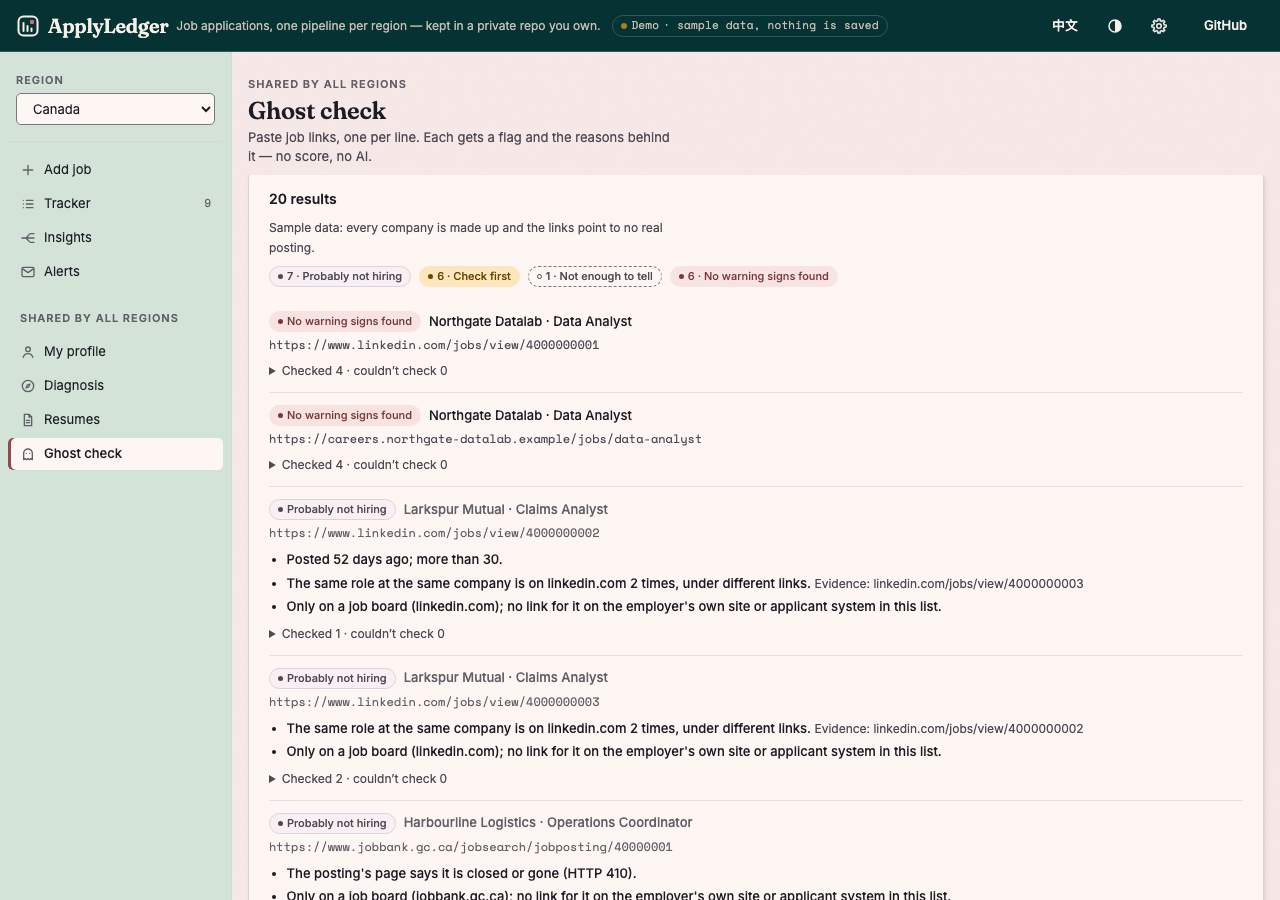
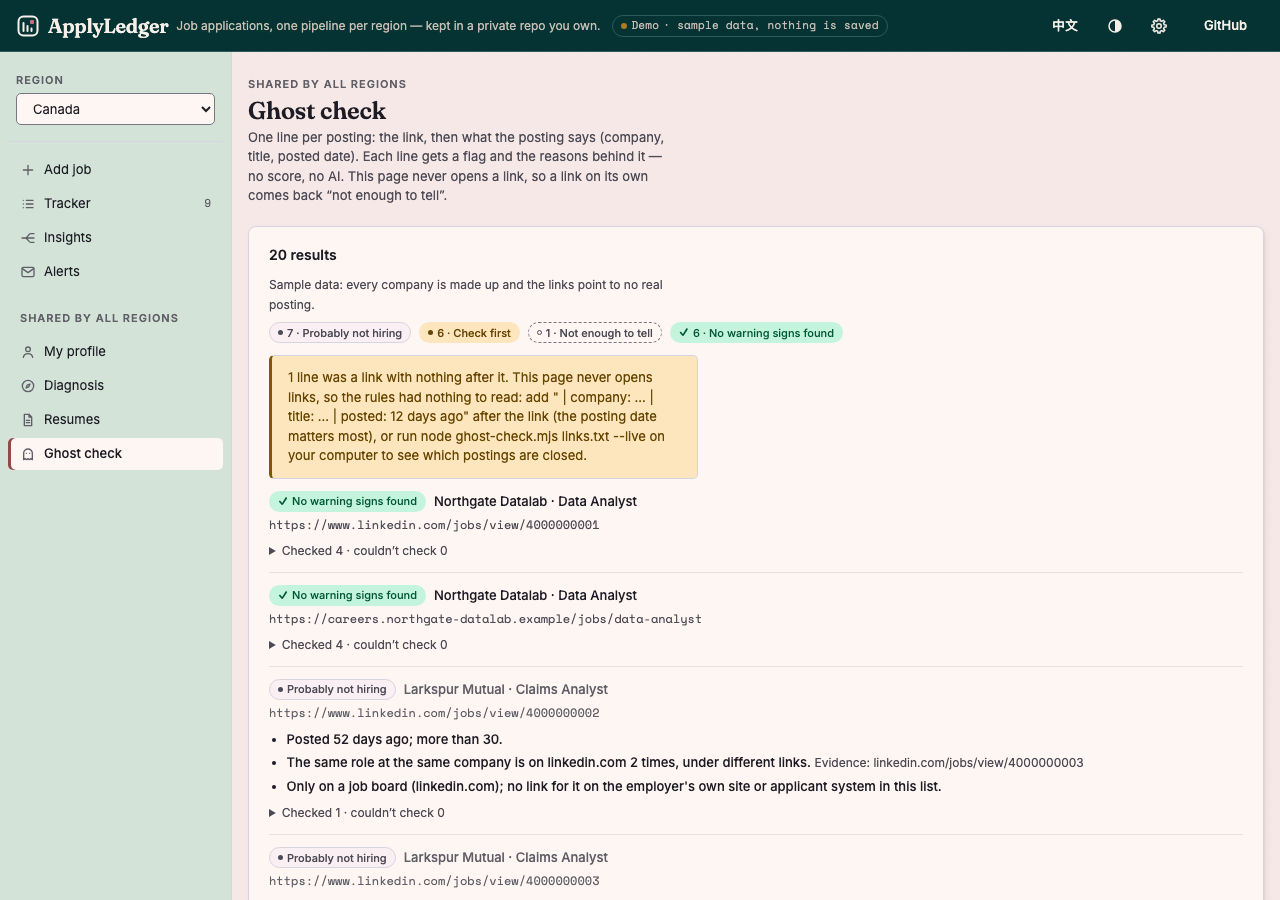
Ghost check: say what to paste, show a worked example, calm colour for the calm flag
Found while checking the repo as an outside reader (2026-09-30): the page and
the README said "paste job links", but five bare links pasted came back
"not enough to tell", five of five. The rules read what is written after the
link (company, title, posted date); the page never opens a link. The check
itself is unchanged; the words and the first screen now agree with it.

- Page: the heading says what a line needs and that a bare link comes back
  "not enough to tell"; the hint carries one worked example and its result;
  when a pasted line is only a link, a note says what to add.
- Command line: the same note after the summary line.
- README: a Try it block near the top with one command
  (node ghost-check.mjs examples/ghost-links.txt) and its real output, one
  line for each of the four flags; "What to paste" in the Ghost check
  section; --live is described as what it is (it only sees closed pages).
- "No warning signs found" was the pink tag with a red dot (tag-info in this
  palette) and read as the alarm; it is now the green one. README image
  retaken.
- Tests: a bare link is marked as carrying no fields and the report says so;
  the README block must equal the example's current output.

No network fetching was added. Verdict logic untouched (15 of 15 mutants
still caught).

Changed region(s): [[0.1875, 0.1244, 0.8438, 1.0], [0.5312, 0.28, 0.6562, 0.3111]]

diff --git a/index.html b/index.html
@@ -3,7 +3,7 @@
 <html lang="en">
 <head>
 <meta charset="utf-8">
-<meta http-equiv="Content-Security-Policy" content="script-src 'self' 'sha256-5nyhwSzTgu2n7ZAL4gvhru/QlXgk4oq6kTJUzThiFGQ=' 'sha256-fKQZmKTZa8V4D4jRPG1kdnpiVO8m+8u3vqQQFRv0R7A=' 'sha256-usgMvqia8NwlXYHjhmGZSosoxN0j24scHXxU9V3buVs='">
+<meta http-equiv="Content-Security-Policy" content="script-src 'self' 'sha256-5nyhwSzTgu2n7ZAL4gvhru/QlXgk4oq6kTJUzThiFGQ=' 'sha256-fKQZmKTZa8V4D4jRPG1kdnpiVO8m+8u3vqQQFRv0R7A=' 'sha256-orYwMgQVs4+lO2C4UgUaQB8tQTQ2VJqJPGvjT/44crQ='">
 <script>/* appearance boot — runs before any stylesheet so the stored palette and light/dark apply on the first paint */(function(){try{var d=document.documentElement,L=window.localStorage,t=L.getItem('nl-theme'),s=L.getItem('nl-scheme');if(s===null){var o=L.getItem('theme')||L.getItem('qm-theme');if(o==='dark'||o==='light')s=o;}if(t==='paper'||t==='ink')d.setAttribute('data-theme',t);if(s==='dark'||s==='light')d.setAttribute('data-scheme',s);}catch(e){}})();</script>
 <meta name="viewport" content="width=device-width, initial-scale=1, viewport-fit=cover">
 <meta name="description" content="ApplyLedger: job applications, one pipeline per region, kept in a private repo you own. A tracker, a pipeline chart and an hours ledger for the Canadian Experience Class; the AI prompts run in your own Claude.ai.">
@@ -367,7 +367,8 @@ const GhostFlags = (() => {
       companyFrom: fields.company ? "given" : c.company ? "link" : null,
       title: fields.title || "",
       posted: fields.posted || "",
-      live: fields.live || ""
+      live: fields.live || "",
+      given: Object.keys(fields).length
     };
   }
   function check(text, opts = {}) {
@@ -3394,7 +3395,8 @@ const GHOST_VERDICT = {
   "not-hiring": { cls: "tag-neutral", en: "Probably not hiring", zh: "大概率不在招" },
   check: { cls: "tag-warning", en: "Check first", zh: "先核实" },
   unknown: { cls: "tag-draft", en: "Not enough to tell", zh: "信息不够判断" },
-  clear: { cls: "tag-info", en: "No warning signs found", zh: "没发现危险信号" }
+  clear: { cls: "tag-success", en: "No warning signs found", zh: "没发现危险信号" }
+  // the calm one: it was tag-info, which is pink with a red dot in this palette and read as the alarm
 };
 const GHOST_ORDER = ["not-hiring", "check", "unknown", "clear"];
 function GhostTab({ eyebrow }) {
@@ -3412,17 +3414,18 @@ function GhostTab({ eyebrow }) {
   const L = (x) => T(x.zh, x.en);
   const counts = results ? GHOST_ORDER.map((v) => [v, results.filter((r) => r.verdict === v).length]).filter(([, n]) => n) : [];
   const bad = results ? results.filter((r) => r.verdict === "unreadable") : [];
+  const bare = results ? results.filter((r) => !r.error && r.given === 0).length : 0;
   return /* @__PURE__ */ React.createElement(React.Fragment, null, /* @__PURE__ */ React.createElement(
     PageHead,
     {
       eyebrow,
       title: T("幽灵岗检查", "Ghost check"),
       sub: T(
-        "贴上职位链接，一行一个。每条都给出结论和理由——没有打分，也不用 AI。",
-        "Paste job links, one per line. Each gets a flag and the reasons behind it — no score, no AI."
+        "一行一个职位：先放链接，再写上职位页面上的信息（公司、职位、发布日期）。每条都给出结论和理由——没有打分，也不用 AI。本页不会打开链接，只贴链接只会得到「信息不够判断」。",
+        "One line per posting: the link, then what the posting says (company, title, posted date). Each line gets a flag and the reasons behind it — no score, no AI. This page never opens a link, so a link on its own comes back “not enough to tell”."
       )
     }
-  ), /* @__PURE__ */ React.createElement("div", { className: "stack" }, /* @__PURE__ */ React.createElement("div", { className: "card" }, /* @__PURE__ */ React.createElement("label", { htmlFor: "ghost-in", className: "card-head" }, /* @__PURE__ */ React.createElement("h2", null, T("职位链接", "Job links"))), /* @__PURE__ */ React.createElement(
+  ), /* @__PURE__ */ React.createElement("div", { className: "stack" }, /* @__PURE__ */ React.createElement("div", { className: "card" }, /* @__PURE__ */ React.createElement("label", { htmlFor: "ghost-in", className: "card-head" }, /* @__PURE__ */ React.createElement("h2", null, T("职位链接和页面信息", "Postings: link, then what it says"))), /* @__PURE__ */ React.createElement(
     "textarea",
     {
       id: "ghost-in",
@@ -3438,16 +3441,19 @@ function GhostTab({ eyebrow }) {
       placeholder: "https://www.linkedin.com/jobs/view/… | company: … | title: … | posted: 12 days ago"
     }
   ), /* @__PURE__ */ React.createElement("p", { className: "hint" }, T(
-    '每行先放链接，后面可以用 " | " 接：company:（公司）、title:（职位）、posted:（日期或「N days ago」）、live:（存活检查结果，由 ghost-check.mjs --live 写）。给得越多，能查的规则越多。',
-    'Each line starts with the link; after it, optionally, separated by " | ": company:, title:, posted: (a date or "N days ago") and live: (what a liveness check found; ghost-check.mjs --live writes it). The more a line says, the more rules can look.'
-  )), /* @__PURE__ */ React.createElement("div", { className: "btn-row ghost-acts" }, /* @__PURE__ */ React.createElement(Btn, { variant: "primary", onClick: () => run(text, isSample), disabled: !text.trim() }, T("检查", "Check")), /* @__PURE__ */ React.createElement(Btn, { onClick: () => {
+    '每行先放链接，后面用 " | " 接上职位页面上的信息：company:（公司）、title:（职位）、posted:（日期或「N days ago」）、live:（存活检查结果，由 ghost-check.mjs --live 写）。规则读的是这些信息：至少要有发布日期，公司和职位能让另外两条规则查得了。',
+    'Each line starts with the link; after it, separated by " | ", what the posting says: company:, title:, posted: (a date or "N days ago") and live: (what a liveness check found; ghost-check.mjs --live writes it). These are what the rules read: give at least the posting date; company and title let two more rules look.'
+  )), /* @__PURE__ */ React.createElement("p", { className: "hint" }, T("例子：", "Example: "), /* @__PURE__ */ React.createElement("span", { className: "mono ghost-ev" }, "https://www.linkedin.com/jobs/view/4000000002 | company: Larkspur Mutual | title: Claims Analyst | posted: 52 days ago"), T(" → 「大概率不在招」：发布超过 30 天，而且只在招聘网站上。", " → “probably not hiring”: posted more than 30 days ago, and only on a job board.")), /* @__PURE__ */ React.createElement("div", { className: "btn-row ghost-acts" }, /* @__PURE__ */ React.createElement(Btn, { variant: "primary", onClick: () => run(text, isSample), disabled: !text.trim() }, T("检查", "Check")), /* @__PURE__ */ React.createElement(Btn, { onClick: () => {
     setText(GhostFlags.SAMPLE);
     run(GhostFlags.SAMPLE, true);
   } }, T("试试 20 条示例链接", "Try 20 sample links")), text && /* @__PURE__ */ React.createElement(Btn, { variant: "ghost", onClick: () => {
     setText("");
     ghostDraft = "";
     setResults(null);
-  } }, T("清空", "Clear")))), results && /* @__PURE__ */ React.createElement("div", { className: "card", "aria-live": "polite" }, /* @__PURE__ */ React.createElement("div", { className: "card-head" }, /* @__PURE__ */ React.createElement("h2", null, T(`${results.length - bad.length} 条结果`, `${results.length - bad.length} results`))), isSample && /* @__PURE__ */ React.createElement("p", { className: "hint" }, T("示例数据：公司都是编的，链接不指向真实职位。", "Sample data: every company is made up and the links point to no real posting.")), /* @__PURE__ */ React.createElement("p", { className: "ghost-sum" }, counts.map(([v, n]) => /* @__PURE__ */ React.createElement("span", { key: v, className: "tag " + GHOST_VERDICT[v].cls }, n, " · ", L(GHOST_VERDICT[v])))), bad.length > 0 && /* @__PURE__ */ React.createElement(Alert, { type: "warning" }, T(`${bad.length} 行不是以链接开头，跳过了：`, `${bad.length} line${bad.length > 1 ? "s" : ""} did not start with a link and ${bad.length > 1 ? "were" : "was"} skipped: `), bad.map((b) => b.line).join(" · ")), /* @__PURE__ */ React.createElement("ol", { className: "ghost-list" }, results.filter((r) => r.verdict !== "unreadable").map((r, i) => /* @__PURE__ */ React.createElement("li", { key: i, className: "ghost-item ghost-" + r.verdict }, /* @__PURE__ */ React.createElement("div", { className: "ghost-top" }, /* @__PURE__ */ React.createElement("span", { className: "tag " + GHOST_VERDICT[r.verdict].cls }, L(GHOST_VERDICT[r.verdict])), /* @__PURE__ */ React.createElement("span", { className: "ghost-what" }, [r.company, r.title].filter(Boolean).join(" · ") || T("（没写公司和职位）", "(no company or title given)"))), /* @__PURE__ */ React.createElement("p", { className: "ghost-url mono" }, isSample ? r.url : /* @__PURE__ */ React.createElement("a", { href: r.url, target: "_blank", rel: "noopener noreferrer" }, r.url)), r.reasons.length > 0 && /* @__PURE__ */ React.createElement("ul", { className: "ghost-reasons" }, r.reasons.map((x, j) => /* @__PURE__ */ React.createElement("li", { key: j }, /* @__PURE__ */ React.createElement("b", null, L(x)), x.evidence && /* @__PURE__ */ React.createElement("span", { className: "ghost-ev" }, " ", T("证据：", "Evidence: "), x.evidence.map((u) => u.replace(/^https?:\/\/(www\.)?/, "")).join(", "))))), (r.seen.length > 0 || r.unknown.length > 0) && /* @__PURE__ */ React.createElement("details", { className: "ghost-more" }, /* @__PURE__ */ React.createElement("summary", null, T(`查过的 ${r.seen.length} 项 · 查不了的 ${r.unknown.length} 项`, `Checked ${r.seen.length} · couldn’t check ${r.unknown.length}`)), /* @__PURE__ */ React.createElement("ul", null, r.seen.map((x, j) => /* @__PURE__ */ React.createElement("li", { key: "s" + j }, "✓ ", L(x))), r.unknown.map((x, j) => /* @__PURE__ */ React.createElement("li", { key: "u" + j, className: "faint" }, "? ", L(x))))))))), /* @__PURE__ */ React.createElement("div", { className: "card" }, /* @__PURE__ */ React.createElement("h2", null, T("它查什么，查不了什么", "What it checks, and what it can’t know")), /* @__PURE__ */ React.createElement("ul", { className: "ghost-rules" }, /* @__PURE__ */ React.createElement("li", null, T(
+  } }, T("清空", "Clear")))), results && /* @__PURE__ */ React.createElement("div", { className: "card", "aria-live": "polite" }, /* @__PURE__ */ React.createElement("div", { className: "card-head" }, /* @__PURE__ */ React.createElement("h2", null, T(`${results.length - bad.length} 条结果`, `${results.length - bad.length} results`))), isSample && /* @__PURE__ */ React.createElement("p", { className: "hint" }, T("示例数据：公司都是编的，链接不指向真实职位。", "Sample data: every company is made up and the links point to no real posting.")), /* @__PURE__ */ React.createElement("p", { className: "ghost-sum" }, counts.map(([v, n]) => /* @__PURE__ */ React.createElement("span", { key: v, className: "tag " + GHOST_VERDICT[v].cls }, n, " · ", L(GHOST_VERDICT[v])))), bare > 0 && /* @__PURE__ */ React.createElement(Alert, { type: "warning" }, T(
+    `${bare} 行只有链接，后面什么都没写。本页不会打开链接，规则没有东西可读：在链接后面加上 " | company: … | title: … | posted: 12 days ago"（发布日期最要紧），或者在本机运行 node ghost-check.mjs 链接.txt --live 看哪些已经关闭。`,
+    `${bare} ${bare > 1 ? "lines were" : "line was"} a link with nothing after it. This page never opens links, so the rules had nothing to read: add " | company: … | title: … | posted: 12 days ago" after the link (the posting date matters most), or run node ghost-check.mjs links.txt --live on your computer to see which postings are closed.`
+  )), bad.length > 0 && /* @__PURE__ */ React.createElement(Alert, { type: "warning" }, T(`${bad.length} 行不是以链接开头，跳过了：`, `${bad.length} line${bad.length > 1 ? "s" : ""} did not start with a link and ${bad.length > 1 ? "were" : "was"} skipped: `), bad.map((b) => b.line).join(" · ")), /* @__PURE__ */ React.createElement("ol", { className: "ghost-list" }, results.filter((r) => r.verdict !== "unreadable").map((r, i) => /* @__PURE__ */ React.createElement("li", { key: i, className: "ghost-item ghost-" + r.verdict }, /* @__PURE__ */ React.createElement("div", { className: "ghost-top" }, /* @__PURE__ */ React.createElement("span", { className: "tag " + GHOST_VERDICT[r.verdict].cls }, L(GHOST_VERDICT[r.verdict])), /* @__PURE__ */ React.createElement("span", { className: "ghost-what" }, [r.company, r.title].filter(Boolean).join(" · ") || T("（没写公司和职位）", "(no company or title given)"))), /* @__PURE__ */ React.createElement("p", { className: "ghost-url mono" }, isSample ? r.url : /* @__PURE__ */ React.createElement("a", { href: r.url, target: "_blank", rel: "noopener noreferrer" }, r.url)), r.reasons.length > 0 && /* @__PURE__ */ React.createElement("ul", { className: "ghost-reasons" }, r.reasons.map((x, j) => /* @__PURE__ */ React.createElement("li", { key: j }, /* @__PURE__ */ React.createElement("b", null, L(x)), x.evidence && /* @__PURE__ */ React.createElement("span", { className: "ghost-ev" }, " ", T("证据：", "Evidence: "), x.evidence.map((u) => u.replace(/^https?:\/\/(www\.)?/, "")).join(", "))))), (r.seen.length > 0 || r.unknown.length > 0) && /* @__PURE__ */ React.createElement("details", { className: "ghost-more" }, /* @__PURE__ */ React.createElement("summary", null, T(`查过的 ${r.seen.length} 项 · 查不了的 ${r.unknown.length} 项`, `Checked ${r.seen.length} · couldn’t check ${r.unknown.length}`)), /* @__PURE__ */ React.createElement("ul", null, r.seen.map((x, j) => /* @__PURE__ */ React.createElement("li", { key: "s" + j }, "✓ ", L(x))), r.unknown.map((x, j) => /* @__PURE__ */ React.createElement("li", { key: "u" + j, className: "faint" }, "? ", L(x))))))))), /* @__PURE__ */ React.createElement("div", { className: "card" }, /* @__PURE__ */ React.createElement("h2", null, T("它查什么，查不了什么", "What it checks, and what it can’t know")), /* @__PURE__ */ React.createElement("ul", { className: "ghost-rules" }, /* @__PURE__ */ React.createElement("li", null, T(
     "存活：职位页面说已关闭或已下架 → 直接判「大概率不在招」。页面还在不代表真在招。",
     "Liveness: the posting’s page says it is closed or gone → “probably not hiring” on its own. A page that is still up proves nothing."
   )), /* @__PURE__ */ React.createElement("li", null, T("发布超过 30 天。", "Posted more than 30 days ago.")), /* @__PURE__ */ React.createElement("li", null, T("同一网站上同一公司同一职位出现不止一次、链接不同（重复发布）。", "The same company and title on the same site more than once, under different links (reposted).")), /* @__PURE__ */ React.createElement("li", null, T("只在招聘网站上，清单里没有雇主官网或其招聘系统（Greenhouse、Lever、Workday…）的链接。", "Only on a job board, with no link on the employer’s own site or applicant system (Greenhouse, Lever, Workday, …) in the list."))), /* @__PURE__ */ React.createElement("p", { className: "hint" }, T(

diff --git a/src/app.jsx b/src/app.jsx
@@ -3636,7 +3636,7 @@ const GHOST_VERDICT = {
   'not-hiring': { cls:'tag-neutral', en:'Probably not hiring', zh:'大概率不在招' },
   check:        { cls:'tag-warning', en:'Check first',         zh:'先核实' },
   unknown:      { cls:'tag-draft',   en:'Not enough to tell',  zh:'信息不够判断' },
-  clear:        { cls:'tag-info',    en:'No warning signs found', zh:'没发现危险信号' },
+  clear:        { cls:'tag-success', en:'No warning signs found', zh:'没发现危险信号' },   // the calm one: it was tag-info, which is pink with a red dot in this palette and read as the alarm
 };
 const GHOST_ORDER = ['not-hiring', 'check', 'unknown', 'clear'];
 function GhostTab({ eyebrow }) {
@@ -3651,19 +3651,21 @@ function GhostTab({ eyebrow }) {
   const L = x => T(x.zh, x.en);
   const counts = results ? GHOST_ORDER.map(v => [v, results.filter(r => r.verdict === v).length]).filter(([, n]) => n) : [];
   const bad = results ? results.filter(r => r.verdict === 'unreadable') : [];
+  const bare = results ? results.filter(r => !r.error && r.given === 0).length : 0;   // a link and nothing else: say what to add
   return (
     <>
       <PageHead eyebrow={eyebrow} title={T('幽灵岗检查','Ghost check')}
-        sub={T('贴上职位链接，一行一个。每条都给出结论和理由——没有打分，也不用 AI。',
-               'Paste job links, one per line. Each gets a flag and the reasons behind it — no score, no AI.')} />
+        sub={T('一行一个职位：先放链接，再写上职位页面上的信息（公司、职位、发布日期）。每条都给出结论和理由——没有打分，也不用 AI。本页不会打开链接，只贴链接只会得到「信息不够判断」。',
+               'One line per posting: the link, then what the posting says (company, title, posted date). Each line gets a flag and the reasons behind it — no score, no AI. This page never opens a link, so a link on its own comes back “not enough to tell”.')} />
       <div className="stack">
         <div className="card">
-          <label htmlFor="ghost-in" className="card-head"><h2>{T('职位链接','Job links')}</h2></label>
+          <label htmlFor="ghost-in" className="card-head"><h2>{T('职位链接和页面信息','Postings: link, then what it says')}</h2></label>
           <textarea id="ghost-in" className="mono lined ghost-in" rows={8} value={text} spellCheck={false}
             onChange={e => { setText(e.target.value); ghostDraft = e.target.value; setIsSample(false); }}
             placeholder={'https://www.linkedin.com/jobs/view/… | company: … | title: … | posted: 12 days ago'} />
-          <p className="hint">{T('每行先放链接，后面可以用 " | " 接：company:（公司）、title:（职位）、posted:（日期或「N days ago」）、live:（存活检查结果，由 ghost-check.mjs --live 写）。给得越多，能查的规则越多。',
-            'Each line starts with the link; after it, optionally, separated by " | ": company:, title:, posted: (a date or "N days ago") and live: (what a liveness check found; ghost-check.mjs --live writes it). The more a line says, the more rules can look.')}</p>
+          <p className="hint">{T('每行先放链接，后面用 " | " 接上职位页面上的信息：company:（公司）、title:（职位）、posted:（日期或「N days ago」）、live:（存活检查结果，由 ghost-check.mjs --live 写）。规则读的是这些信息：至少要有发布日期，公司和职位能让另外两条规则查得了。',
+            'Each line starts with the link; after it, separated by " | ", what the posting says: company:, title:, posted: (a date or "N days ago") and live: (what a liveness check found; ghost-check.mjs --live writes it). These are what the rules read: give at least the posting date; company and title let two more rules look.')}</p>
+          <p className="hint">{T('例子：', 'Example: ')}<span className="mono ghost-ev">https://www.linkedin.com/jobs/view/4000000002 | company: Larkspur Mutual | title: Claims Analyst | posted: 52 days ago</span>{T(' → 「大概率不在招」：发布超过 30 天，而且只在招聘网站上。', ' → “probably not hiring”: posted more than 30 days ago, and only on a job board.')}</p>
           <div className="btn-row ghost-acts">
             <Btn variant="primary" onClick={() => run(text, isSample)} disabled={!text.trim()}>{T('检查','Check')}</Btn>
             <Btn onClick={() => { setText(GhostFlags.SAMPLE); run(GhostFlags.SAMPLE, true); }}>{T('试试 20 条示例链接','Try 20 sample links')}</Btn>
@@ -3675,6 +3677,8 @@ function GhostTab({ eyebrow }) {
             <div className="card-head"><h2>{T(`${results.length - bad.length} 条结果`, `${results.length - bad.length} results`)}</h2></div>
             {isSample && <p className="hint">{T('示例数据：公司都是编的，链接不指向真实职位。','Sample data: every company is made up and the links point to no real posting.')}</p>}
             <p className="ghost-sum">{counts.map(([v, n]) => <span key={v} className={'tag ' + GHOST_VERDICT[v].cls}>{n} · {L(GHOST_VERDICT[v])}</span>)}</p>
+            {bare > 0 && <Alert type="warning">{T(`${bare} 行只有链接，后面什么都没写。本页不会打开链接，规则没有东西可读：在链接后面加上 " | company: … | title: … | posted: 12 days ago"（发布日期最要紧），或者在本机运行 node ghost-check.mjs 链接.txt --live 看哪些已经关闭。`,
+              `${bare} ${bare > 1 ? 'lines were' : 'line was'} a link with nothing after it. This page never opens links, so the rules had nothing to read: add " | company: … | title: … | posted: 12 days ago" after the link (the posting date matters most), or run node ghost-check.mjs links.txt --live on your computer to see which postings are closed.`)}</Alert>}
             {bad.length > 0 && <Alert type="warning">{T(`${bad.length} 行不是以链接开头，跳过了：`, `${bad.length} line${bad.length > 1 ? 's' : ''} did not start with a link and ${bad.length > 1 ? 'were' : 'was'} skipped: `)}{bad.map(b => b.line).join(' · ')}</Alert>}
             <ol className="ghost-list">
               {results.filter(r => r.verdict !== 'unreadable').map((r, i) => (

diff --git a/src/ghost-flags.js b/src/ghost-flags.js
@@ -5,7 +5,9 @@
 // version, which can also check whether each posting is still up) run the same rules. test/ghost-flags.test.mjs tests
 // each rule, and ghost-mutants.mjs breaks each rule in a copy of this file and requires a test to fail.
 //
-// Input: one posting per line, a link first, then optional fields separated by " | ":
+// Input: one posting per line, a link first, then what the posting says, as fields separated by " | ". The fields are
+// what the rules read: a link with nothing after it gives them nothing to look at and comes back "not enough to tell"
+// (`given` counts the fields a line carried, so the page and the command line can say what to add).
 //   https://www.linkedin.com/jobs/view/4000000001 | company: Northgate Datalab | title: Data Analyst | posted: 2026-08-10 | live: expired (HTTP 410)
 // `posted` takes a date (YYYY-MM-DD) or "N days/weeks/months ago" (also "30+ days ago", "today", "yesterday").
 // `live` is what a liveness check found: expired, live or unknown, with a detail in brackets. ghost-check.mjs --live
@@ -111,6 +113,7 @@ const GhostFlags = (() => {
       url: u.href, host: u.hostname.replace(/^www\./, ''), kind: c.kind,
       company: fields.company || c.company.replace(/-/g, ' '), companyFrom: fields.company ? 'given' : c.company ? 'link' : null,
       title: fields.title || '', posted: fields.posted || '', live: fields.live || '',
+      given: Object.keys(fields).length,
     };
   }
 

diff --git a/README.md b/README.md
@@ -10,6 +10,49 @@ this repository — and keeps everything in a **private GitHub repo you own**.
 **Live demo:** https://nickkklian.github.io/Job-Tracker/?demo=1&tab=tracker (or `&tab=insights`; add `&region=usa`
 to open another region) — sample data, nothing is saved. English by default, 中文 in the top bar.
 
+## Try it
+
+**In the browser, nothing to install:** [the Ghost check on 20 made-up postings](https://nickkklian.github.io/Job-Tracker/?demo=1&tab=ghost),
+or [the tracker with sample data](https://nickkklian.github.io/Job-Tracker/?demo=1&tab=tracker).
+
+**From a clone, one command** (Node, nothing to install, no network):
+
+```bash
+node ghost-check.mjs examples/ghost-links.txt
+```
+
+[`examples/ghost-links.txt`](examples/ghost-links.txt) holds four made-up postings. Three lines give the link and what
+the posting says (company, title, posted date); the fourth is a link on its own. This is what comes back:
+
+```
+PROBABLY NOT HIRING  https://www.linkedin.com/jobs/view/4000000002
+  x Posted 52 days ago; more than 30.
+  x Only on a job board (linkedin.com); no link for it on the employer's own site or applicant system in this list.
+  . Only one link for this role on linkedin.com in this list.
+  ? Not checked whether the posting is still up (run ghost-check.mjs --live).
+CHECK FIRST  https://www.indeed.com/viewjob?jk=a1b2c3d4e5f60001
+  x Only on a job board (indeed.com); no link for it on the employer's own site or applicant system in this list.
+  . Posted 12 days ago.
+  . Only one link for this role on indeed.com in this list.
+  ? Not checked whether the posting is still up (run ghost-check.mjs --live).
+NO WARNING SIGNS FOUND  https://boards.greenhouse.io/quillworks/jobs/5000001
+  . Posted 6 days ago.
+  . Only one link for this role on boards.greenhouse.io in this list.
+  . On the employer's applicant system (boards.greenhouse.io).
+  ? Not checked whether the posting is still up (run ghost-check.mjs --live).
+NOT ENOUGH TO TELL  https://www.linkedin.com/jobs/view/4000000007
+  ? Not checked whether the posting is still up (run ghost-check.mjs --live).
+  ? Posting date unknown.
+  ? Company or title unknown, so reposts cannot be matched.
+  ? Company unknown, so the employer's own site cannot be matched.
+
+4 lines: 1 probably not hiring, 1 check first, 1 no warning signs found, 1 not enough to tell, 0 unreadable
+1 line was a link with nothing after it. Nothing is opened without --live, so the rules had nothing to read: add " | company: … | title: … | posted: …" after the link (the posting date matters most), or run with --live to see which postings are closed.
+```
+
+The check reads what you write after each link. It does not open the link, so a link on its own always comes back
+*not enough to tell*. The rules and their limits are under [Ghost check](#ghost-check-is-anyone-actually-hiring).
+
 ![Tracker](docs/screenshot-tracker.png)
 
 ## What's in it
@@ -25,7 +68,7 @@ The navigation has two groups: the views that belong to the region you are in, a
 | **My profile** | A sectioned profile (upload files, or start from a skeleton and per-role skills blocks), a translation glossary, and formatting rules that go into every resume prompt |
 | **Diagnosis** | A six-step check before applying: stage → strengths → target profile → reality check against real postings → resume narrative → high-stakes decisions |
 | **Resumes** | A library of resume versions: preview, rename, download, delete, or use one as your profile |
-| **Ghost check** | Paste job links, one per line; each gets *probably not hiring*, *check first*, *not enough to tell* or *no warning signs found*, with the reasons and the evidence behind it. No score, no AI, no account needed (below) |
+| **Ghost check** | One line per posting: the link, then what the posting says (company, title, posted date). Each line gets *probably not hiring*, *check first*, *not enough to tell* or *no warning signs found*, with the reasons and the evidence behind it. A link on its own comes back *not enough to tell*, because the page does not open links. No score, no AI, no account needed (below) |
 
 ![Insights](docs/screenshot-insights.png)
 
@@ -48,8 +91,8 @@ another browser never replaces it; to tailor that job again, delete its resume f
 
 ### Ghost check: is anyone actually hiring?
 
-Some postings stay up long after the job is gone, or were never meant to be filled. The Ghost check gives each link a
-flag and says why, in plain words. There is no score and no model: four rules, each of which either fires with the
+Some postings stay up long after the job is gone, or were never meant to be filled. The Ghost check gives each posting
+you list a flag and says why, in plain words. There is no score and no model: four rules, each of which either fires with the
 evidence it saw or says what it could not check.
 
 **Demo:** https://nickkklian.github.io/Job-Tracker/?demo=1&tab=ghost opens it with 20 made-up postings: 7 come out
@@ -57,13 +100,19 @@ evidence it saw or says what it could not check.
 
 ![Ghost check on the 20 sample links (the input box above the results is trimmed out of this image)](docs/screenshot-ghost.png)
 
-One line per posting: the link first, then optionally `company:`, `title:`, `posted:` (a date or "12 days ago") and
-`live:`, separated by ` | `. A LinkedIn link or an applicant-system link (Greenhouse, Lever, Workday, Ashby, …) already
-carries the company name.
+**What to paste.** One line per posting: the link first, then what the posting says, as `company:`, `title:`, `posted:`
+(a date or "12 days ago") and `live:`, separated by ` | `. The rules read these fields, not the page behind the link:
+with the link alone none of them can look, and the flag is *not enough to tell*. Give at least the posting date;
+company and title let the repost rule and the employer-site rule look. An applicant-system link (Greenhouse, Lever,
+Workday, Ashby, …) already carries the company name, and so does a LinkedIn link of the long form
+(`…/jobs/view/data-analyst-at-northgate-datalab-4000000001`).
 
 ```
 https://www.linkedin.com/jobs/view/4000000002 | company: Larkspur Mutual | title: Claims Analyst | posted: 52 days ago
 ```
+
+That line comes back *probably not hiring*: posted 52 days ago, and only on a job board. The same link with nothing
+after it comes back *not enough to tell* ([both are in the example above](#try-it)).
 
 **What it checks**
 
@@ -97,8 +146,9 @@ that was run on real postings after they came down; the markers for other sites 
 node ghost-check.mjs links.txt --live     # or without --live: the rules only, no network
 ```
 
-A page that is still up proves nothing either way, and LinkedIn is read through its public guest view, which can
-change without notice.
+`--live` answers one question, whether the page says the posting is closed. It does not read the posting date or the
+company off the page, so a bare link that is still up stays *not enough to tell*. A page that is still up proves nothing
+either way, and LinkedIn is read through its public guest view, which can change without notice.
 
 ## How it's built
 
